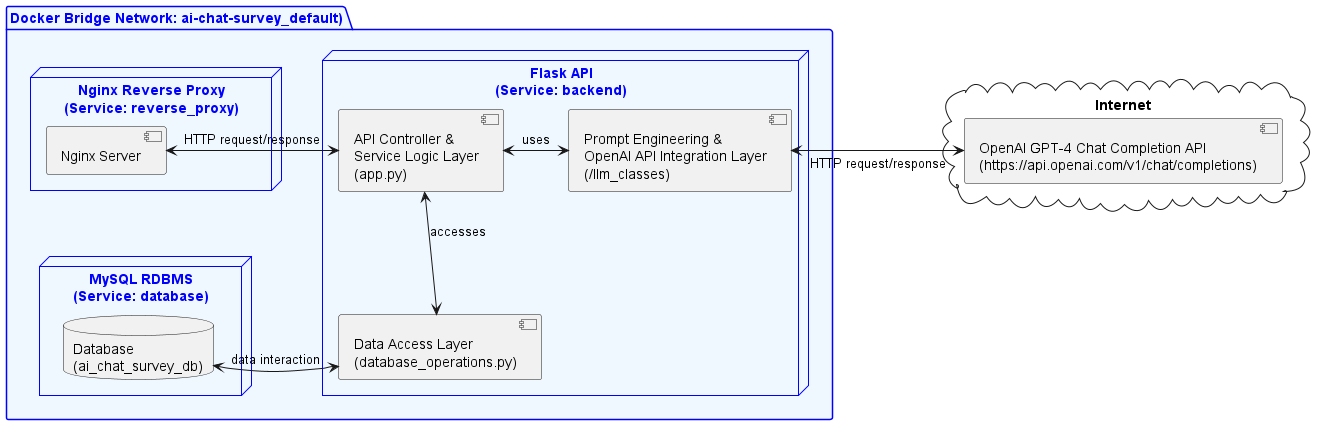
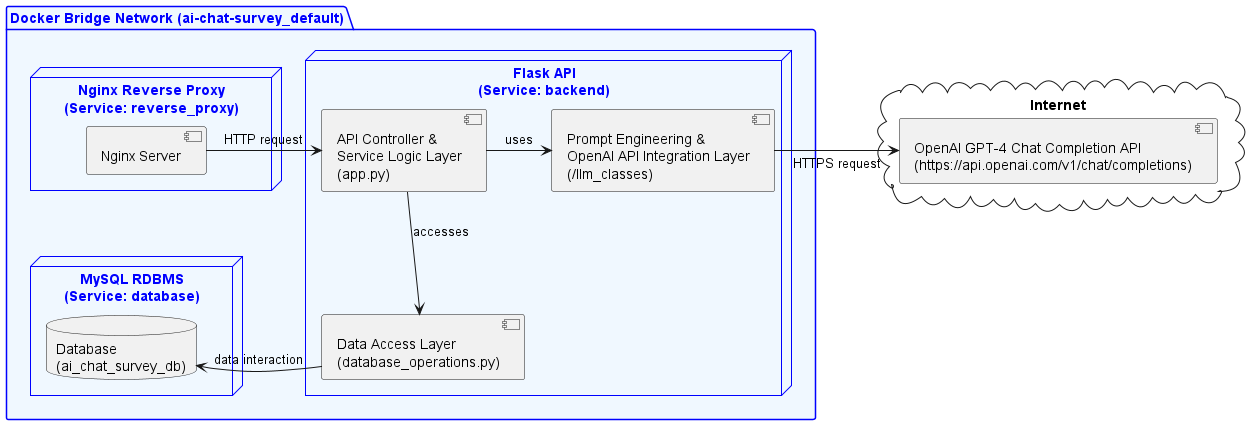
Overall and backend documentation improvements (#259)
* Update backend and overall architecture diagrams

* Update tech-report.md with deployment details

* Update setup.md with SSL deployment instructions

* Rearrange backend report

* Update backend.md with database details

* Update interaction between components in backend.md

diff --git a/docs/backend.md b/docs/backend.md
@@ -38,7 +38,7 @@ Like Maiorino, our group also seeks to leverage LLMs’ “concept expansion” 
 - **Testing (Pytest, Unittest)**: Pytest and Unittest are utilized for testing the backend components, ensuring reliability and functionality.
 - **Formatting (Black, isort)**: Black and isort are used for code formatting and style consistency. Black automatically formats Python code to adhere to PEP 8 guidelines, enhancing readability, while Isort structures import statements, ensuring code organisation.
 
-### 3. Interaction between components
+### 3. Interaction between Components and Layers
 
 The backend components interact harmoniously to facilitate the flow of data and operations within the system:
 
@@ -49,9 +49,9 @@ The backend components interact harmoniously to facilitate the flow of data and 
 - `Prompt Engineering Layer` to `OpenAI API Integration Layer`: The `Prompt Engineering Layer` interfaces with the `OpenAI API Integration Layer` to send prompts to the GPT-4 model and receive responses. The `OpenAI API Integration Layer` manages the communication with the OpenAI API, handling model interactions and responses.
 - `API Controller Layer` to `Client`: The `API Controller Layer` sends HTTP responses back to the client, providing the requested data, acknowledging the completion of operations, or forwarding chatbot responses generated by the model.
 
-### 4. Components of the Backend Architecture
+## Backend Components
 
-#### a. Server/API
+### API
 
 The backend server is the core component responsible for processing incoming requests from the frontend via our API. Implemented using Flask in app.py, the server handles various functionalities such as creating surveys, submitting responses, sending chat messages to GPT-4, with the following endpoints:
 
@@ -90,7 +90,7 @@ We decided not to implement full CRUD operations for the 3 resources (Admins, Su
 
 For the detailed API documentation, refer to [api.md](api.md).
 
-#### b. Database
+### Database
 
 The MySQL database, named `ai_chat_survey_db`, serves as the centralized repository for storing survey data, user information, chat logs, and other relevant data. It consists of tables including `Admins`, `Surveys`, `Questions`, `Survey_Responses`, and `ChatLog`, designed to efficiently store and manage different types of data.
 
@@ -106,13 +106,13 @@ The MySQL database, named `ai_chat_survey_db`, serves as the centralized reposit
 
 For the full database schema, please refer to [init.sql](../database/init.sql)
 
+### Model
 
-#### c. Prompt Engineering Layer
-##### Class Diagram
+#### Class Diagram
 
 ![Class Diagram](diagrams/images/llmclasses.png)
 
-##### AI Engineering: Model
+#### AI Engineering
 
 The underlying model powering this app is the Large Language Model (LLM) GPT-4. A LLM was determined due to the business objective, which requires dynamic survey question generations. In order to address the demands of the user, who wishes for an entertaining and dynamic survey experience, as well as the client, who expects more robust data security measures and a more efficient method of gathering insights, we have constructed the following pipeline. A detailed explanation on how we derived this solution and the incremental adjustments leading to this pipeline is in [llm.md](llm.md).
 
@@ -123,14 +123,13 @@ The underlying model powering this app is the Large Language Model (LLM) GPT-4. 
 
 In the pipeline on the left, the model is first provided the survey responses. The model is then tasked with generating a list of interesting questions, which it is tasked with remembering. This has improved the quality of the conversation tremendously. Primarily, it serves to discourage the model from deviating from the interview topic. Thus, if a user decides to talk about topic A, the model will not continuously probe about topic A, and instead move on to another question in its generated list of questions, after it has decided that it has attained enough information regarding topic A. Notably, we notice that this strategy has not degraded the quality of the LLM's questions, and the conversation remains dynamic. There are also two layers of content moderation. The first layer is a specific instruction to refuse participating when provided with inappropriate inputs by the user, and the second is a content moderation filter which checks the output from the model. This addresses security concerns posed by the client.
 
-##### Evaluation Test
-
+#### Evaluation Test
 
 To conduct a survey that provides a seamless user experience while generating new insights for the client, our LLM must generate interesting questions based on the users' previous responses. It must also take control of and appropriately decide when to end the interview. These skills require a high degree of reasoning capabilities. As a result, GPT-4, one of the most powerful content-moderated LLMs in the market, was chosen. To evaluate GPT-4's capabilities, the model was evaluated on its generated outputs.
 
 A sample survey response and conversation was created manually and GPT-4 was tasked with generating outputs based on the response and snippets of the conversation. The model is evaluated on its ability to remember survey responses and its ability to control the flow of the interview by evaluating its outputs. Its outputs would be compared to a set of outputs that we deemed preferable, and the semantic similarity between GPT-4's output and the expected outputs would serve as the score for the model. This similarity score is generated using [all-MiniLM-L6-v2](https://huggingface.co/sentence-transformers/all-MiniLM-L6-v2).
 
-The model is also evaluated on content moderation, however, this is not done using sentence similarity checks, but a content moderation model by OpenAI is used to evaluate the responses instead. For more details, please refer to [evaluation.md](evaluation.md). 
+The model is also evaluated on content moderation, however, this is not done using sentence similarity checks, but a content moderation model by OpenAI is used to evaluate the responses instead. For more details, please refer to [evaluation.md](evaluation.md).
 
 An evaluation test has already been run and the results are in [evaluation_result.log](../backend/logs/evaluation_result.log).  GPT-4 passes all evaluation checks with an overall average performance of 93.24%. The model performs most poorly in deciding whether to end the interview, achieving scores of 85.72% and 88.02% for two evaluation tests in this domain. This is reflected in how the model occasionally ends interviews prematurely. This issue can be avoided in the future through the use of finetuning, where LLMs could be trained prior to deployment, and we foresee that a finetuned model would be able to replicate a human interviewer in controlling the flow of the interview.
 
@@ -139,18 +138,19 @@ An evaluation test has already been run and the results are in [evaluation_resul
 After conducting user interviews to gather feedback on our AI chatbot survey system, we identified several areas for improvement and subsequently implemented additional features to enhance the user experience. These features address specific user concerns and aim to make the survey interaction more seamless and engaging.
 
 ### 1. 'is_last' Message for Survey Conclusion
+
 - Addressed the issue of abrupt survey endings by introducing an 'is_last' message in the API communication with GPT-4.
 - GPT-4 will assess the current state of the survey and decide if it should end the survey on its own, returning `True` in the API payload.
 - Since a respondent does not need to indicate manually that they wish to end the survey, it ensures that surveys end on a more natural and satisfactory note for respondents.
 
 ### 2. Reduce repetitive questioning
+
 - Refined prompt engineering to specifically address the issue of GPT-4 asking repetitive questions during the user interviews. This change prevents GPT-4 from asking the same question more than once.
 - Enhances the interactive nature of the survey experience and ensures that respondents remain actively engaged throughout the interaction.
 
 By incorporating these additional features based on user feedback, we aim to further optimize the functionality and usability of our AI chatbot survey system, ultimately enhancing the overall user satisfaction and effectiveness of the survey process.
 
 ### 3. Content Moderation
-
 
 ## Conclusion
 

diff --git a/docs/tech-report.md b/docs/tech-report.md
@@ -55,6 +55,7 @@ Further details about setup/installation can be found in [Setup](setup.md), such
 - Backend Development Environment
 - Testing (Backend)
 - Frontend Development Environment
+- Deployment
 
 ## Overall Architecture
 
@@ -63,6 +64,7 @@ Further details about setup/installation can be found in [Setup](setup.md), such
 ### Services
 
 - **Reverse Proxy (Nginx)**: Handles incoming requests and routes them to the backend or frontend. This unifies the frontend and backend under a single domain and allows for easy scaling of the frontend and backend services as well as avoids CORS issues.
+- **SSL Certificate Client (Certbot)**: Automatically fetches and renews SSL certificates from Let's Encrypt. This ensures that the application is served over HTTPS, providing a secure connection for users.
 - **Frontend (React)**: User interface for the application. It can be scaled horizontally to handle more users.
 - **Backend (Flask)**: Handles the business logic and interacts with the database. It can be scaled horizontally to handle more users.
 - **Database (MySQL)**: Stores the data for the application.
@@ -70,6 +72,7 @@ Further details about setup/installation can be found in [Setup](setup.md), such
 ### Technology Stack
 
 - **Reverse Proxy (Nginx)**: Nginx was chosen due to its simplicity and performance. It is used to route requests to the frontend or backend based on the URL path. Load balancing relies on the Docker network's internal DNS resolution. For more advanced load balancing, solutions like Traefik can be used due to its dynamic configuration capabilities and support for Docker.
+- **SSL Certificate Client (Certbot)**: Certbot was chosen for its ease of use and integration with Let's Encrypt.
 - The rationale for the choice of technologies for the other services can be found in the respective sections below.
 
 ## DevOps

diff --git a/docs/setup.md b/docs/setup.md
@@ -217,3 +217,30 @@ The recommended way to run is to use docker compose instead, see [Running the Ap
    ```
 
 The recommended way to run is to use docker compose instead, see [Running the Application](#running-the-application).
+
+## Deployment
+
+### Obtain SSL Certificate from Let's Encrypt
+
+1. Obtain a domain name from a domain registrar and point the domain to the server's IP address.
+2. Make sure you update `DOMAIN`, `VITE_BASE_URL`, `NGINX_ENV`, `NODE_ENV`, `FLASK_ENV`, and `FLASK_SECRET_KEY` in the `.env` file.
+3. Run the following command to attempts to obtain an SSL certificate in staging mode:
+
+   ```shell
+   ./scripts/init_ssl.sh www.example.com dev@email.com 1
+   ```
+
+   - Replace `www.example.com` with your domain name.
+   - Replace `dev@email.com` with your email address.
+
+4. If the certificate is successfully obtained, run the following command to obtain the certificate in production mode:
+
+   ```shell
+   ./scripts/init_ssl.sh www.example.com dev@email.com 0
+   ```
+
+### Running the Application with SSL Enabled
+
+```shell
+docker-compose -f docker-compose.yml -f docker-compose.ssl.yml up -d --build
+```
